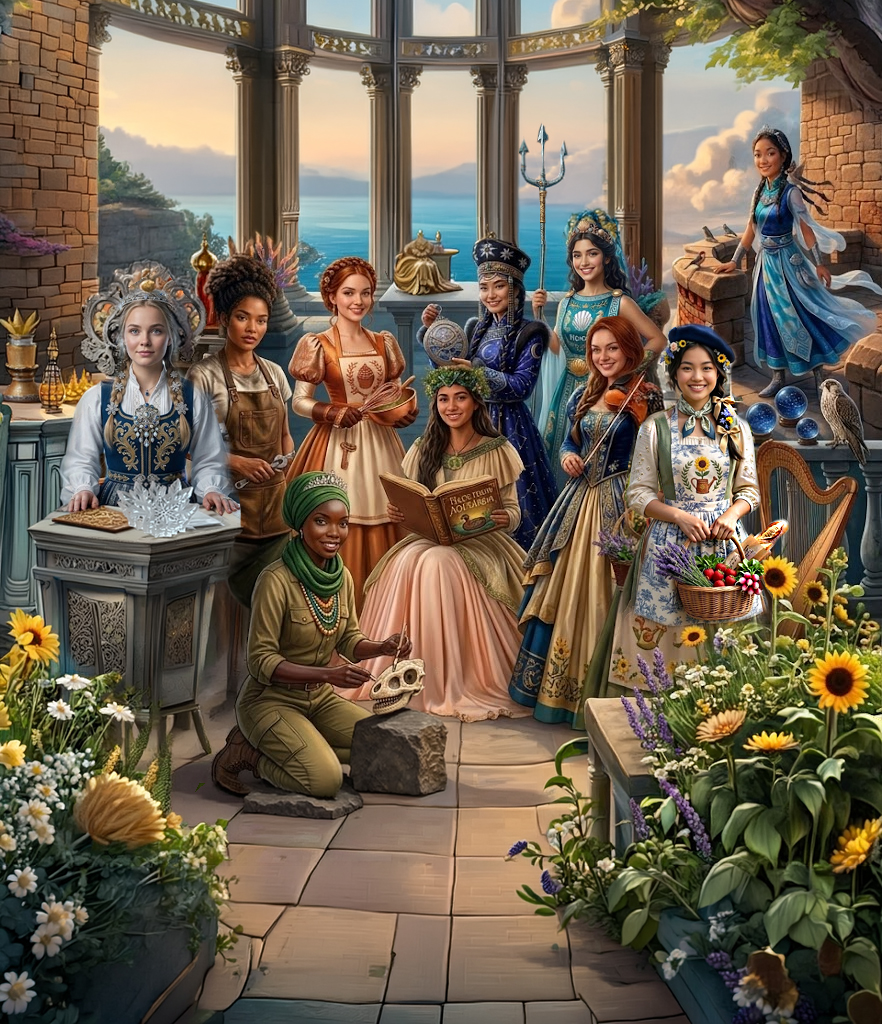
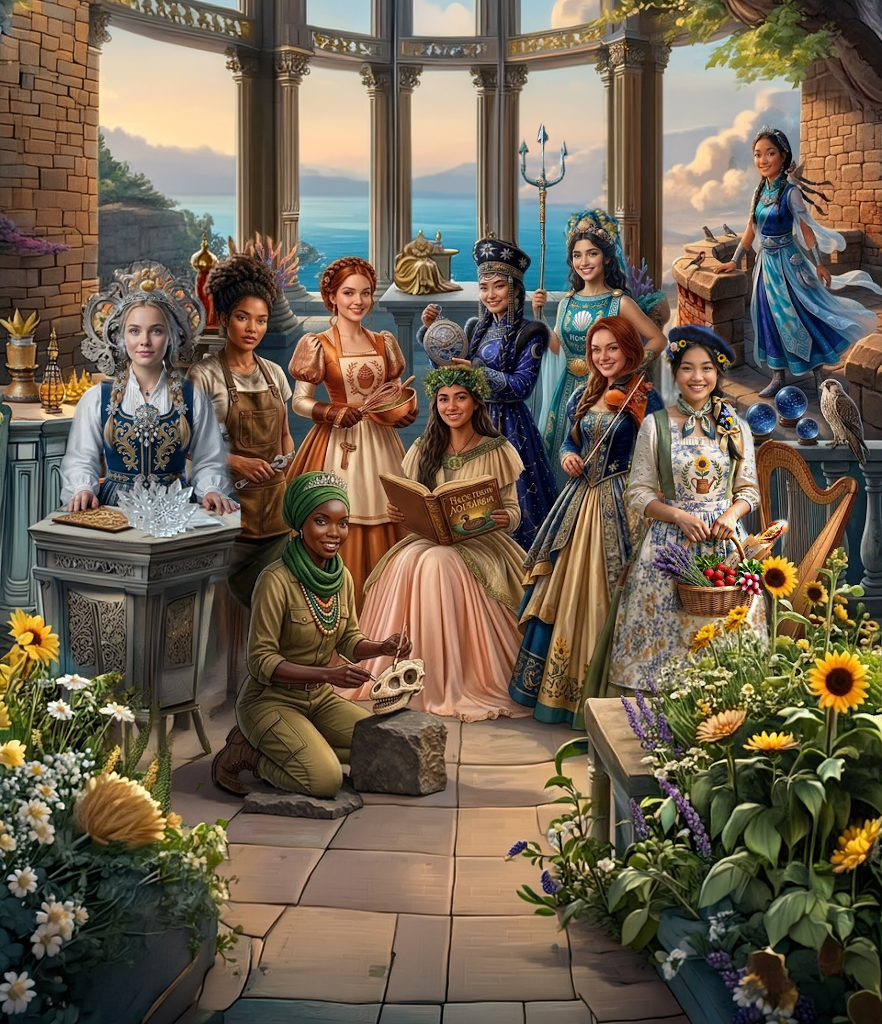
Reorganise the log-in, and fix the video panel
The log-in screen was three stacked choice rows, and it appeared on
every visit, so a returning child scrolled past a setup screen to reach
a princess. It is now one strip showing who she is, her badge and her
colour, which opens the choices only if she taps it. A brand new profile
opens expanded, because then it genuinely is setup.

Header is a horizontal lockup: castle left, name right. Stacked and
centred it read as a title card and pushed the doors below the fold.
ETL YOU moves to the foot, where a division mark belongs; at the top it
was the first thing a visitor read, competing with the product it
belongs to.

Three faults in the video panel, in order of how much they mattered.

The panel was nearly square and black because .face still carried flex:1
from an earlier change that made portrait artwork fill its frame. Flex
sizing overrides aspect-ratio, so the 16:9 never applied.

The video was small because the princess column is 38% wide, which was
sized for portrait artwork. A wing with a cartoon now takes the wider
column, since a landscape video is the thing worth looking at.

The play-black-play cycle came from passing background=1 alongside
explicit autoplay, muted and loop flags. background=1 already implies
all three, and the overlap makes the player re-initialise at the loop
point, which is the black frame. The explicit flags stay, background
goes.

Cast portrait updated.

Changed region(s): [[0.6735, 0.5, 0.8878, 0.6875], [0.7041, 0.3438, 0.8571, 0.4375], [0.7959, 0.4688, 0.8878, 0.5312]]

diff --git a/everly-castle.html b/everly-castle.html
@@ -138,7 +138,25 @@ body{
   touch-action:manipulation;
 }
 
-header{text-align:center;padding:18px 18px 6px}
+header{text-align:center;padding:16px 18px 4px}
+/* Castle and name side by side. Wraps to stacked on a narrow phone. */
+.masthead{display:flex;align-items:center;justify-content:center;gap:14px;flex-wrap:wrap}
+.masthead h1{margin:0}
+/* The division mark, at the foot and quiet. */
+.etlyou-foot{text-align:center;padding:18px 0 30px;opacity:.6}
+.etlyou-foot .etlyou{width:78px;margin:0 auto}
+/* One strip instead of three rows. Shows who she is; opens the choices. */
+.whoami{
+  display:flex;align-items:center;gap:10px;margin:0 auto;
+  padding:8px 16px;border:1px solid var(--rule);border-radius:999px;
+  background:var(--card);color:var(--ink);cursor:pointer;font-family:inherit
+}
+.whoami:active{transform:scale(.97)}
+.whoami-crest{color:var(--blue);line-height:0}
+.whoami-name{font-size:14.5px;font-weight:700}
+.whoami-dot{width:16px;height:16px;border-radius:50%;border:1px solid rgba(0,0,0,.15)}
+.whoami-more{font-size:11px;letter-spacing:.08em;text-transform:uppercase;opacity:.45}
+.setup{margin-top:14px}
 /* ETL YOU. Spectral for the wordmark and Public Sans for YOU, per the brand
    sheet; the three-bar stack is ETL's own mark, inherited unchanged. It takes
    currentColor so it retints with the child's chosen castle colour instead of
@@ -384,32 +402,11 @@ dialog button{
 <body>
 
 <header>
-  <!-- ETL YOU: Emerging Technologies Laboratory YOUTH. The division mark sits
-       above the product, not instead of it. Everly Castle is one castle
-       inside ETL YOU, so the mark stays small and constant here and the
-       product name stays the loud thing on the page. It is drawn inline
-       rather than loaded as a file so it can never be the missing asset that
-       leaves a masthead blank. -->
-  <!-- The real ETL YOU mark, per Dr. O's brand sheet, replacing a gold pill I
-       had invented. ETL's own three-bar stack sits above the wordmark, drawn
-       as offset rounded outlines climbing left to right, with YOU set small
-       and raised against ETL in Spectral. Pure geometry plus type: nothing to
-       load, and it holds at any size. -->
-  <a class="etlyou" href="#" aria-label="ETL YOU, Emerging Technologies Laboratory Youth" onclick="return false">
-    <svg viewBox="0 0 132 74" role="img" aria-hidden="true">
-      <g fill="none" stroke="currentColor" stroke-width="3.4">
-        <rect x="8"  y="30" width="34" height="15" rx="7.5"/>
-        <rect x="19" y="17" width="34" height="15" rx="7.5"/>
-        <rect x="30" y="4"  width="34" height="15" rx="7.5"/>
-      </g>
-      <text x="4" y="70" class="etl">ETL</text>
-      <text x="72" y="59" class="you">YOU</text>
-    </svg>
-  </a>
-  <!-- Engraved castle, not the pink emoji. Same reasoning as the crests and as
-       ETL's own mark: pure geometry, so nothing has to load for it to render
-       and it never looks like a sticker next to painterly artwork. -->
-  <div class="crest" aria-hidden="true">
+  <!-- Castle and name on one line, not stacked. Left to right reads as a
+       lockup; stacked and centred it read as a title card and pushed the
+       doors below the fold. -->
+  <div class="masthead">
+<div class="crest" aria-hidden="true">
     <svg viewBox="0 0 64 64" width="60" height="60">
       <g fill="currentColor">
         <path d="M6 30h4v-5h4v5h4v-5h4v5h4v26H6z"/>
@@ -420,43 +417,41 @@ dialog button{
       <path d="M28 56V44a4 4 0 018 0v12z" fill="var(--gate,#28527a)"/>
     </svg>
   </div>
-  <h1 id="castleName">Everly Castle</h1>
-  <!-- "Pick a door" used to live here, which was wasted: the child navigates
-       by the faces and never reads it. The line a parent needs goes here
-       instead, and the curriculum sits one tap away, ungated. -->
-  <!-- Says what this IS. An earlier draft read "and not one lesson that feels
-       like one", which defined the product by what it is not. House rule. -->
+    <h1 id="castleName">Everly Castle</h1>
+  </div>
   <p class="sub">Ten princesses. Ten real subjects. Learned by playing.</p>
-  <!-- Says what everyone IS. Two earlier drafts were framed as negatives, and
-       the second one landed as a slight on the child rather than a compliment
-       to her: "the children won't need one" reads as too little to use a
-       guide, not too quick to want one. -->
   <button class="peek" id="peek" type="button">Guide for parents (the children already worked it out)</button>
 </header>
 
 <!-- Shown only when more than one child lives on this device. Crest first,
      name second: the child picks the picture, the grown-up reads the word. -->
+<!-- ── Who is visiting ──────────────────────────────────────────────────
+     Three stacked choice rows used to sit here on every single visit, which
+     meant a returning child walked past a setup screen to reach a princess.
+     Now there is one strip showing who she is, and the choices open only if
+     she taps it. A brand new profile opens expanded, because then it really
+     is a setup screen. -->
 <section class="picker" id="picker" hidden>
-  <div class="picker-cap">Who is visiting?</div>
-  <div class="picker-row" id="pickerRow"></div>
-  <!-- Chosen right here, at the moment she says who she is. Not buried in a
-       settings panel she cannot open. -->
-  <!-- The child picks her own mark. It is how she finds herself in a line-up
-       she cannot read, so it should be hers by choice, not assigned to her by
-       whoever set the tablet up. -->
-  <!-- Everything the child chooses about herself now lives in one place, at
-       the moment she says who she is: what she is called, her badge, her
-       colour. The title used to sit in the grown-up panel behind a maths gate,
-       which made it the one thing about her that somebody else decided. -->
-  <div class="picker-cap" style="margin-top:14px">Are you a princess or a prince?</div>
-  <div class="theme-row" id="titleRow"></div>
+  <button class="whoami" id="whoami" type="button">
+    <span class="whoami-crest" id="whoamiCrest"></span>
+    <span class="whoami-name" id="whoamiName"></span>
+    <span class="whoami-dot" id="whoamiDot"></span>
+    <span class="whoami-more" id="whoamiMore">change</span>
+  </button>
 
-  <!-- "Your mark" was heraldry-speak. A four-year-old knows what a badge is. -->
-  <div class="picker-cap" style="margin-top:14px">Your badge</div>
-  <div class="theme-row" id="crestRow"></div>
+  <div class="setup" id="setup" hidden>
+    <div class="picker-cap" id="switchCap">Who is visiting?</div>
+    <div class="picker-row" id="pickerRow"></div>
 
-  <div class="picker-cap" style="margin-top:14px">Your castle’s colour</div>
-  <div class="theme-row" id="themeRow"></div>
+    <div class="picker-cap" style="margin-top:14px">Princess or prince?</div>
+    <div class="theme-row" id="titleRow"></div>
+
+    <div class="picker-cap" style="margin-top:14px">Your badge</div>
+    <div class="theme-row" id="crestRow"></div>
+
+    <div class="picker-cap" style="margin-top:14px">Your castle&rsquo;s colour</div>
+    <div class="theme-row" id="themeRow"></div>
+  </div>
 </section>
 
 <div class="greet" id="greet"></div>
@@ -467,6 +462,20 @@ dialog button{
   <div class="row" id="charmRow"></div>
   <div class="cap" id="charmCap">Charms you have earned</div>
 </section>
+
+<!-- The division mark sits at the foot. At the top it was the first thing a
+     visitor read, competing with the product it belongs to. -->
+<footer class="etlyou-foot"><a class="etlyou" href="#" aria-label="ETL YOU, Emerging Technologies Laboratory Youth" onclick="return false">
+    <svg viewBox="0 0 132 74" role="img" aria-hidden="true">
+      <g fill="none" stroke="currentColor" stroke-width="3.4">
+        <rect x="8"  y="30" width="34" height="15" rx="7.5"/>
+        <rect x="19" y="17" width="34" height="15" rx="7.5"/>
+        <rect x="30" y="4"  width="34" height="15" rx="7.5"/>
+      </g>
+      <text x="4" y="70" class="etl">ETL</text>
+      <text x="72" y="59" class="you">YOU</text>
+    </svg>
+  </a></footer>
 
 <button class="grown" id="grownBtn" aria-label="Grown-ups">⚙</button>
 
@@ -1092,15 +1101,36 @@ function drawCrests(){
   });
 }
 
+/* The identity strip: badge, name, colour, and a way in to change them.
+   It replaces three permanently-open choice rows that a returning child had
+   to scroll past every visit to reach a princess. */
+function drawWhoAmI(){
+  const p = activeProfile();
+  const crestHost = document.getElementById("whoamiCrest");
+  crestHost.innerHTML = "";
+  crestHost.appendChild(crestSvg((p && p.crest) || CRESTS[0], 22));
+  const t = visitorTitle();
+  document.getElementById("whoamiName").textContent = p && p.name ? t + " " + p.name : t;
+  const th = THEMES.filter(function(x){ return x.id === ((p && p.theme) || ""); })[0] || THEMES[0];
+  document.getElementById("whoamiDot").style.background = th.swatch;
+  // Only offer switching children when there is more than one.
+  const many = profileList().length > 1;
+  document.getElementById("switchCap").hidden = !many;
+  document.getElementById("pickerRow").hidden = !many;
+}
+
+document.getElementById("whoami").addEventListener("click", function(){
+  const s = document.getElementById("setup");
+  s.hidden = !s.hidden;
+  document.getElementById("whoamiMore").textContent = s.hidden ? "change" : "done";
+});
+
 function drawPicker(){
   const list = profileList();
   const wrap = document.getElementById('picker');
   const host = document.getElementById('pickerRow');
 
-  // The colour row lives in this section, so the section itself is always on.
   wrap.hidden = false;
-  document.getElementById('pickerRow').style.display = list.length < 2 ? 'none' : '';
-  wrap.querySelector('.picker-cap').style.display = list.length < 2 ? 'none' : '';
   host.innerHTML = '';
   list.forEach((p) => {
     const b = document.createElement('button');
@@ -1146,7 +1176,10 @@ function ensureProfile(){
   save(state);
 }
 
-function redraw(){ ensureProfile(); migrateCrests(); const ap=activeProfile(); applyTheme((ap&&ap.theme)||''); drawThemes(); drawCrests(); drawTitles(); drawPicker(); drawDoors(); drawCharms(); drawGreeting(); }
+function redraw(){ ensureProfile(); migrateCrests(); const ap=activeProfile(); applyTheme((ap&&ap.theme)||''); drawThemes(); drawCrests(); drawTitles(); drawPicker(); drawWhoAmI(); drawDoors(); drawCharms(); drawGreeting();
+  // A brand new profile opens expanded, because then this really is setup.
+  const ap2 = activeProfile();
+  if (ap2 && !ap2.name) { document.getElementById("setup").hidden = false; document.getElementById("whoamiMore").textContent = "done"; } }
 redraw();
 
 // Coming back from a wing should show a charm that was just earned without a

diff --git a/everly-castle-wing.html b/everly-castle-wing.html
@@ -152,6 +152,11 @@ body{
        suits the narrow column, so this went back down to 38 after a brief
        detour at 44 for a 16:9 draft of the artwork. */
     grid-template-columns:38fr 62fr;
+  }
+  /* A wing with a cartoon flips the emphasis: the video is landscape and is
+     the thing worth looking at, so it takes the wider column. */
+  .stage.has-embed{
+    grid-template-columns:58fr 42fr;
     /* Top row takes the slack; the bottom row sizes to its contents, because
        how much room the game needs depends entirely on which game it is. */
     grid-template-rows:minmax(180px,1fr) minmax(0,auto);
@@ -192,7 +197,7 @@ body{
 .face video{width:100%;height:100%;object-fit:cover;display:block}
 /* Vimeo panel. The embed is 16:9 and the artwork is 7:8, so the frame changes
    shape rather than letterboxing a portrait panel around a landscape video. */
-.face.has-embed{aspect-ratio:16/9;background:#000}
+.face.has-embed{flex:0 0 auto;aspect-ratio:16/9;background:#000;align-self:stretch}
 .face.has-embed iframe{width:100%;height:100%;border:0;display:block}
 .w-princess:has(.has-embed){justify-content:flex-start}
 /* The still, used ONLY when this princess has no clip yet, and mounted only
@@ -837,9 +842,10 @@ function clearEmoji(host){
   if (vid) {
     clearEmoji(el);
     el.classList.add('has-embed');
+    document.querySelector('.stage').classList.add('has-embed');
     const frame = document.createElement('iframe');
     frame.src = 'https://player.vimeo.com/video/' + vid +
-                '?badge=0&autopause=0&player_id=0&app_id=58479&autoplay=1&muted=1&loop=1&background=1';
+                '?badge=0&autopause=0&player_id=0&app_id=58479&autoplay=1&muted=1&loop=1&controls=0&dnt=1';
     frame.title = AGENT.name + ' in ' + AGENT.wing;
     frame.setAttribute('frameborder', '0');
     frame.setAttribute('allow', 'autoplay; fullscreen; picture-in-picture');
